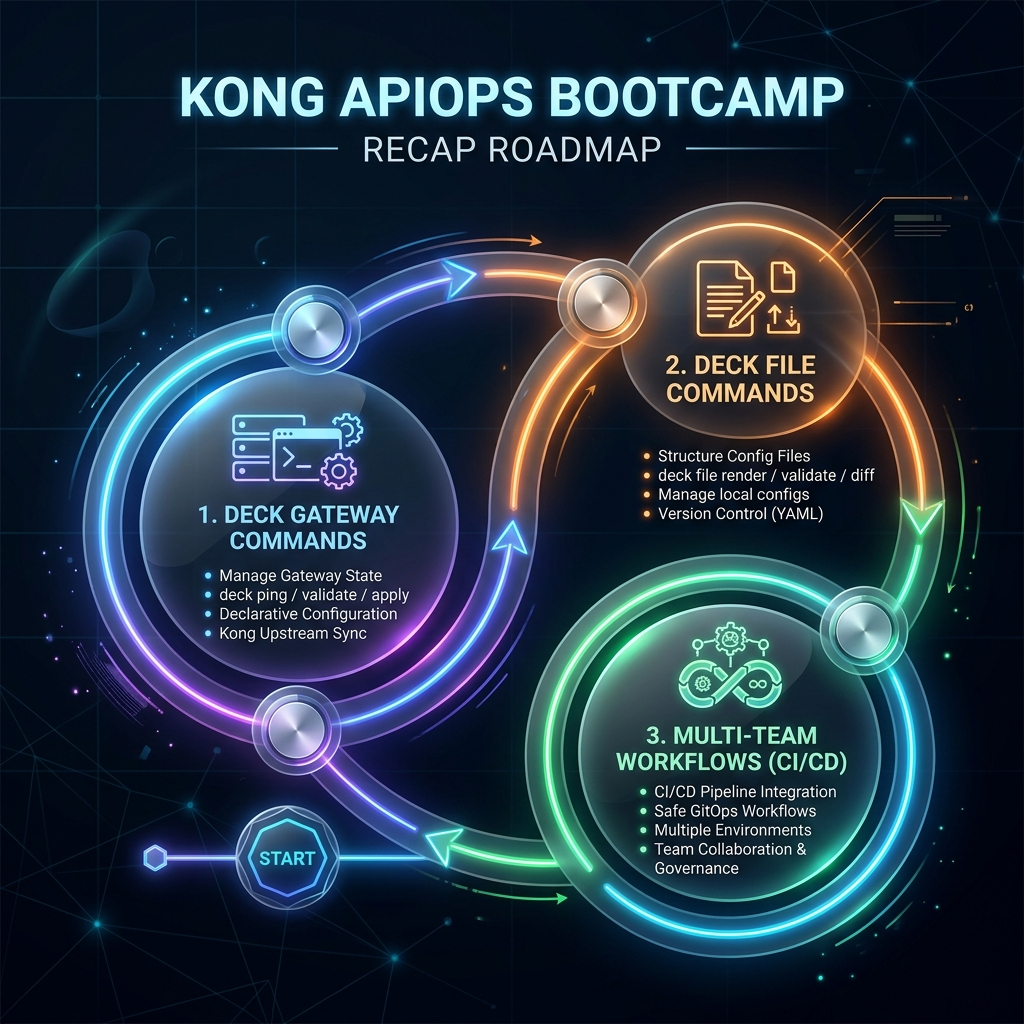
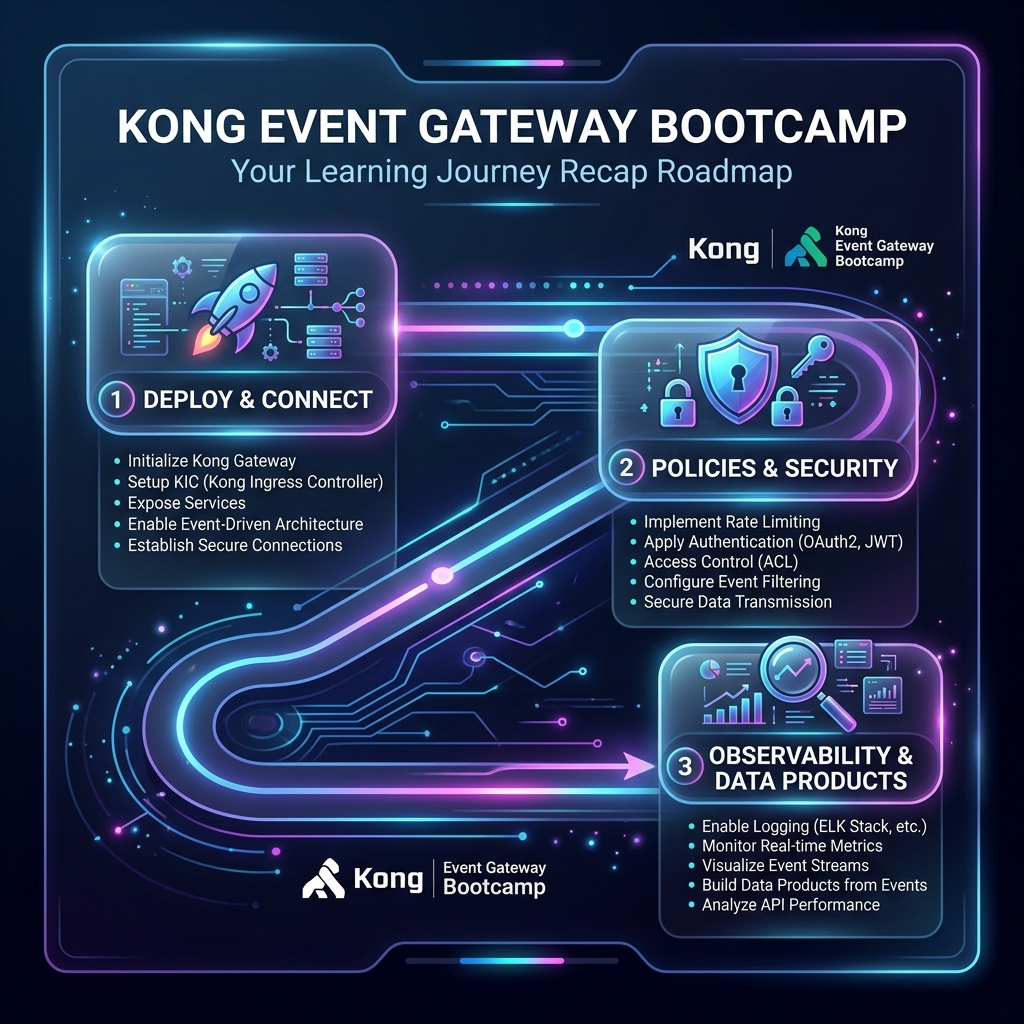
Add bootcamp recap roadmaps and premium architectural diagrams

diff --git a/README.md b/README.md
@@ -8,6 +8,8 @@
 
 A hands-on bootcamp for learning Kong Event Gateway - ACLs, OAuth, schema validation, encryption, and data product packaging through a central Kafka proxy.
 
+![Bootcamp Recap](./public/bootcamp_recap.png)
+
 ## Overview
 
 | | |